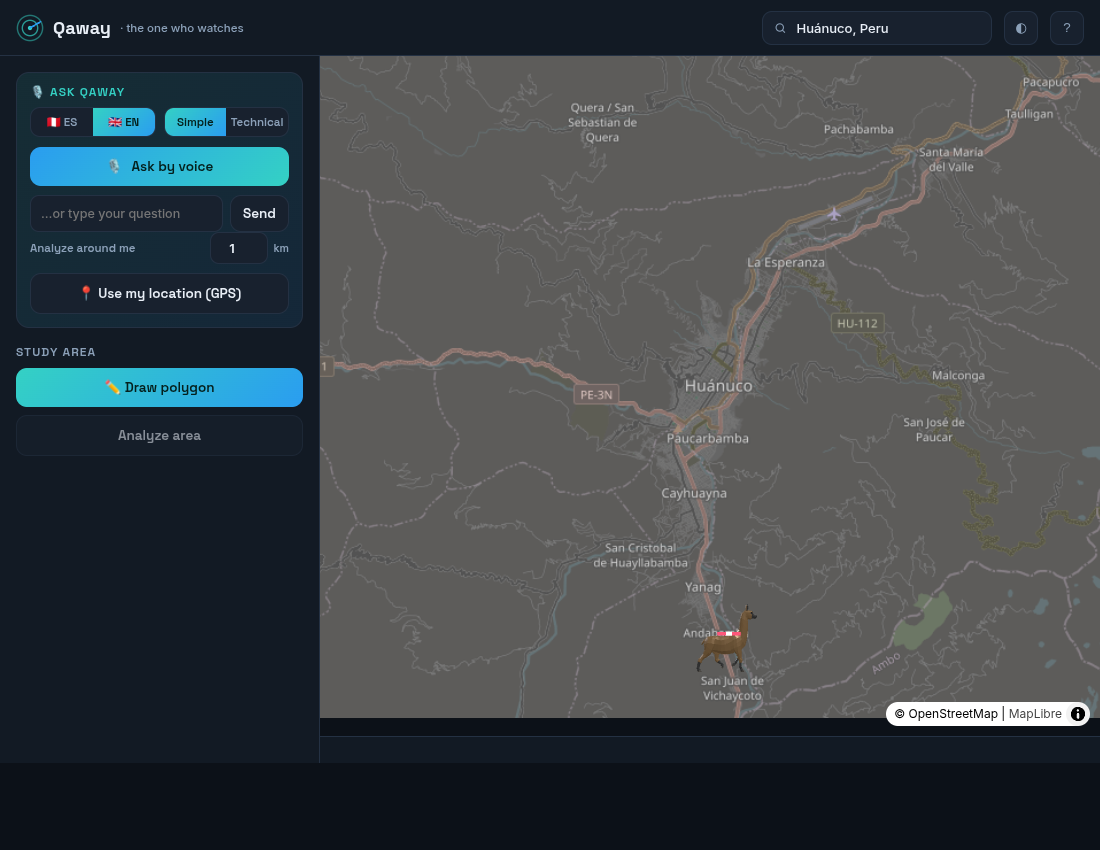
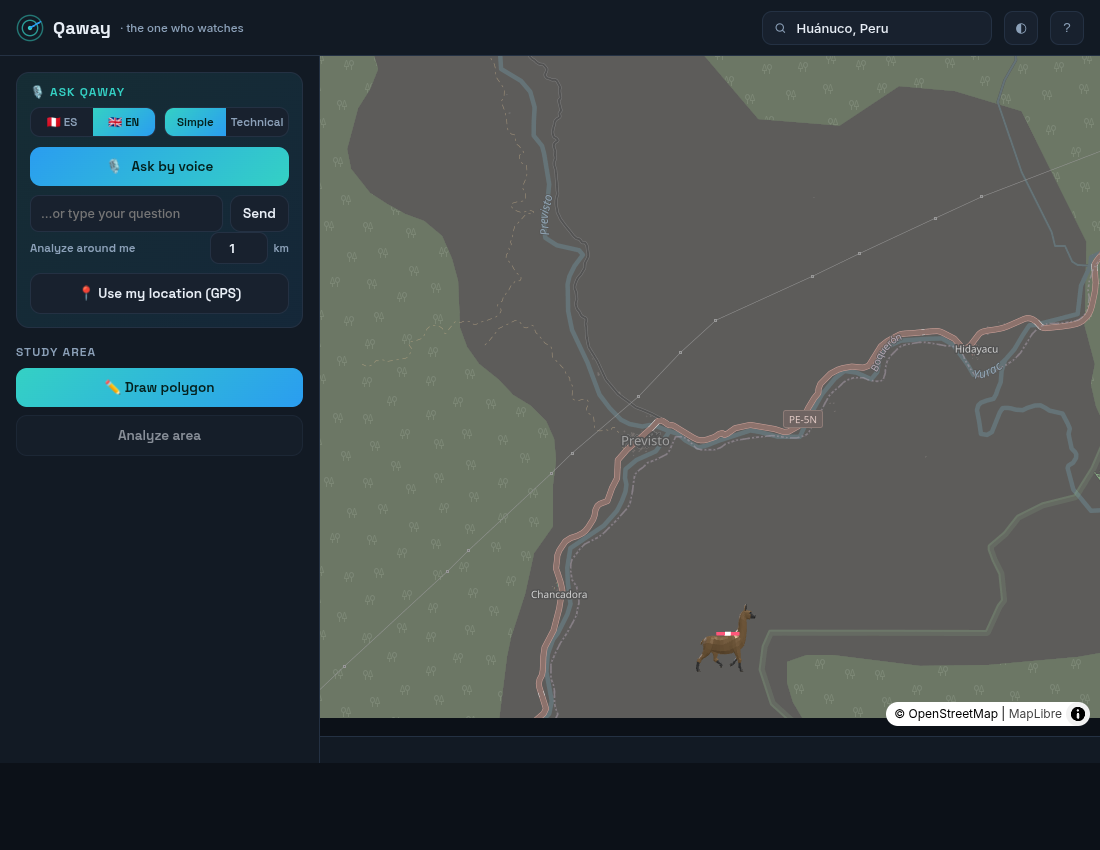
README: mapa del caso real (Santa Rosa / PE-5N) en vez de Huánuco

diff --git a/README.md b/README.md
@@ -68,8 +68,10 @@ a rigorous statistical report for the analyst — two faces of the same engine.
 Andean llama mascot — wearing a red-and-white Peruvian blanket — that walks across the map
 while it watches the road for you.
 
-![Qaway, the walking llama mascot, on the map over Huánuco](docs/img/qaway-map-llama.png)
-<sub>Qaway's mascot walks the map; the app is centered on the user's GPS location.</sub>
+![Qaway, the walking llama mascot, on the map over the Santa Rosa corridor of the PE-5N highway](docs/img/qaway-map-llama.png)
+<sub>Qaway over the **Federico Basadre highway (PE-5N)** at Santa Rosa, Padre Abad — the exact
+jungle corridor of the 1 November slide. The mascot walks the map; the app centers on the
+user's GPS, or on the road corridor being watched.</sub>
 
 It detects **three life-threatening surface changes** along a road corridor, all from NISAR:
 
